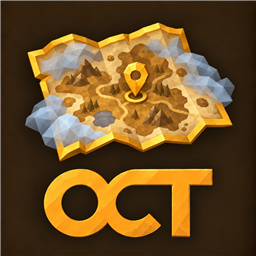
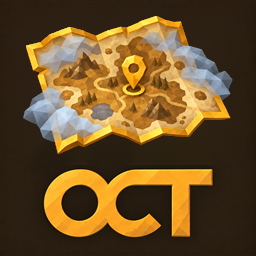
Align package artwork with the shared OCT branding

diff --git a/CHANGELOG.md b/CHANGELOG.md
@@ -1,4 +1,13 @@
+## 0.3.2
+
+- Standardized the package icon background and OCT wordmark placement to match the original OctoberJemini artwork.
+- Artwork-only package update; mod DLLs and gameplay behavior are unchanged.
+
 # Changelog
+
+## 0.3.1
+- Added prominent bug-report, feature-request and source links to the main mod description.
+- Documentation-only package update; mod binaries are unchanged.
 
 ## 0.3.0 — OctoberJemini maintained fork
 
